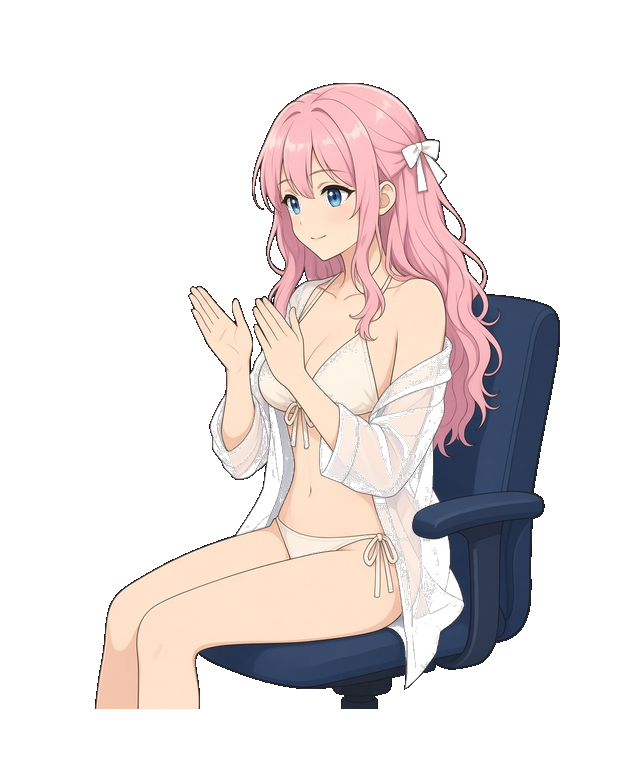
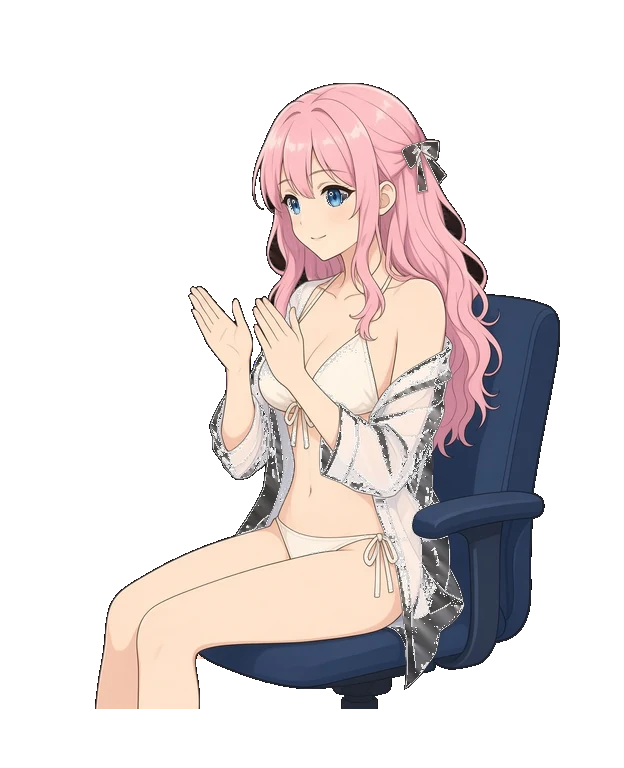
修補秘書拍手慶祝立繪去背破洞並壓縮 WebP 體積。
擴充 alpha 修補腳本與自動化測試，確保人物內部無透明孔洞且檔案大小符合同系列水準。

diff --git a/scripts/fix_secretary_status_sprites.py b/scripts/fix_secretary_status_sprites.py
@@ -1,7 +1,8 @@
 #!/usr/bin/env python3
-"""Repair alpha on secretary status sprites (idle / typing / sleep).
+"""Repair alpha on secretary status sprites and celebrate clap frames.
 
 Removes near-white fringe pixels then inpaints interior holes from opaque neighbors.
+Clap sprites additionally fill interior transparent shirt folds via fill_interior_transparent.
 """
 from __future__ import annotations
 
@@ -41,6 +42,10 @@ WAIST_GAP_SPRITES = frozenset(
 )
 
 REF_WAIST_SPRITE = "secretary-clap-a.webp"
+
+CLAP_SPRITES = ("secretary-clap-a.webp", "secretary-clap-b.webp")
+CLAP_SIZE_MIN = 35_000
+CLAP_SIZE_MAX = 62_000
 
 # 比讚跳躍時鍵盤與大腿間的透明腰洞（與 issue 描述列區間對齊）
 CELEBRATE_WAIST_BOX = (552, 590, 80, 126)
@@ -113,6 +118,71 @@ def is_sheet_rgb(r: int, g: int, b: int) -> bool:
 
 def is_brown_rgb(r: int, g: int, b: int) -> bool:
     return (g - b) >= 12 and (r - b) >= 22 and b < 205 and r < 245
+
+
+def fill_interior_transparent(
+    alpha: np.ndarray, rgb: np.ndarray, thresh: int = 12, max_rounds: int = 500
+) -> Tuple[np.ndarray, np.ndarray]:
+    """Fill every interior transparent pixel (including white-shirt holes)."""
+    a = alpha.copy()
+    c = rgb.copy()
+    h, w = a.shape
+    for _ in range(max_rounds):
+        transparent = a < thresh
+        interior = transparent & ~flood_from_edges(transparent)
+        if not int(interior.sum()):
+            break
+        pending = interior.copy()
+        q: deque = deque((int(x), int(y)) for y, x in zip(*np.where(pending)))
+        filled = 0
+        while q:
+            x, y = q.popleft()
+            if not pending[y, x]:
+                continue
+            n_c: List[np.ndarray] = []
+            for nx, ny in ((x - 1, y), (x + 1, y), (x, y - 1), (x, y + 1)):
+                if 0 <= nx < w and 0 <= ny < h and a[ny, nx] >= thresh:
+                    n_c.append(c[ny, nx])
+            if not n_c:
+                continue
+            rr, gg, bb = map(int, np.median(np.stack(n_c, axis=0), axis=0))
+            a[y, x] = 255
+            c[y, x] = (rr, gg, bb)
+            pending[y, x] = False
+            filled += 1
+            for nx, ny in ((x - 1, y), (x + 1, y), (x, y - 1), (x, y + 1)):
+                if 0 <= nx < w and 0 <= ny < h and pending[ny, nx]:
+                    q.append((nx, ny))
+        if filled == 0:
+            break
+    return a, c
+
+
+def clear_nearwhite_fringe(alpha: np.ndarray, rgb: np.ndarray) -> Tuple[np.ndarray, np.ndarray]:
+    a = alpha.copy()
+    c = rgb.copy()
+    exterior = flood_from_edges(a < 12)
+
+    def semi_mask() -> np.ndarray:
+        return (
+            (a > 40)
+            & (a < 245)
+            & (c[:, :, 0] >= 230)
+            & (c[:, :, 1] >= 230)
+            & (c[:, :, 2] >= 230)
+        )
+
+    drop = semi_mask() & dilate(exterior, 2)
+    if int(drop.sum()):
+        a[drop] = 0
+    body = a > 200
+    for _ in range(8):
+        snap = semi_mask() & dilate(body, 1)
+        if not int(snap.sum()):
+            break
+        a[snap] = 255
+        body = a > 200
+    return a, c
 
 
 def inpaint_holes(alpha: np.ndarray, rgb: np.ndarray, max_passes: int = 96) -> Tuple[np.ndarray, np.ndarray]:
@@ -403,6 +473,18 @@ def snap_alpha(alpha: np.ndarray) -> np.ndarray:
     return a
 
 
+def fix_clap_sprite(im: Image.Image) -> Image.Image:
+    arr = np.array(im.convert("RGBA"))
+    rgb = arr[:, :, :3].copy()
+    alpha = arr[:, :, 3].copy()
+    alpha, rgb = repair_foot_and_fringe(alpha, rgb)
+    alpha, rgb = fill_interior_transparent(alpha, rgb)
+    alpha, rgb = repair_foot_and_fringe(alpha, rgb)
+    alpha, rgb = clear_nearwhite_fringe(alpha, rgb)
+    alpha = snap_alpha(alpha)
+    return Image.fromarray(np.dstack([rgb, alpha]).astype(np.uint8))
+
+
 def fix_sprite(im: Image.Image, name: str = "") -> Image.Image:
     arr = np.array(im.convert("RGBA"))
     rgb = arr[:, :, :3].copy()
@@ -454,9 +536,15 @@ def check_sprite(path: Path) -> List[str]:
     if int((alpha[border] > 8).sum()) > 0:
         errs.append(f"{path.name}: non-transparent image border")
     holes = interior_hole_count(alpha)
-    hole_limit = 230 if path.name == "secretary-sleep.webp" else 100
+    hole_limit = 0 if path.name in CLAP_SPRITES else (230 if path.name == "secretary-sleep.webp" else 100)
     if holes > hole_limit:
         errs.append(f"{path.name}: {holes} interior enclosed holes (limit {hole_limit})")
+    if path.name in CLAP_SPRITES:
+        nbytes = path.stat().st_size
+        if nbytes < CLAP_SIZE_MIN or nbytes > CLAP_SIZE_MAX:
+            errs.append(
+                f"{path.name}: file size {nbytes} bytes (want {CLAP_SIZE_MIN}-{CLAP_SIZE_MAX})"
+            )
     waist = waist_hole_pixels(alpha)
     if waist > 120:
         errs.append(f"{path.name}: {waist} waist enclosed holes (limit 120)")
@@ -589,6 +677,17 @@ def _detached_matte_count(alpha: np.ndarray, rgb: np.ndarray, region: np.ndarray
     return count
 
 
+def run_fix_clap() -> None:
+    for name in CLAP_SPRITES:
+        path = ASSET_DIR / name
+        if not path.exists():
+            print(f"skip missing {name}", file=sys.stderr)
+            continue
+        im = fix_clap_sprite(Image.open(path))
+        save_webp(im, path)
+        print(f"wrote {name}")
+
+
 def run_fix(extra: bool = False) -> None:
     names = list(STATUS_SPRITES)
     if extra:
@@ -605,7 +704,7 @@ def run_fix(extra: bool = False) -> None:
 
 def run_check() -> int:
     errs: List[str] = []
-    checked = set(STATUS_SPRITES) | WAIST_GAP_SPRITES
+    checked = set(STATUS_SPRITES) | WAIST_GAP_SPRITES | set(CLAP_SPRITES)
     for name in sorted(checked):
         path = ASSET_DIR / name
         if path.is_file():
@@ -620,12 +719,16 @@ def run_check() -> int:
 
 def main() -> int:
     parser = argparse.ArgumentParser()
-    parser.add_argument("--check", action="store_true", help="verify status sprites only")
+    parser.add_argument("--check", action="store_true", help="verify status and clap sprites")
     parser.add_argument("--extra", action="store_true", help="also fix typing-b, wave, yeah")
+    parser.add_argument("--clap", action="store_true", help="repair secretary-clap-a/b.webp")
     args = parser.parse_args()
     if args.check:
         return run_check()
-    run_fix(extra=args.extra)
+    if args.clap:
+        run_fix_clap()
+    if not args.clap:
+        run_fix(extra=args.extra)
     return run_check()
 
 

diff --git a/server/src/test/java/com/example/server/web/SecretaryStatusSpriteAlphaTest.java b/server/src/test/java/com/example/server/web/SecretaryStatusSpriteAlphaTest.java
@@ -13,7 +13,7 @@ import java.util.concurrent.TimeUnit;
 import static org.junit.Assert.assertEquals;
 import static org.junit.Assert.assertTrue;
 
-/** 三張秘書狀態立繪的 alpha 檢查（PIL）。 */
+/** 秘書狀態與拍手慶祝立繪的 alpha 檢查（PIL）。 */
 public class SecretaryStatusSpriteAlphaTest {
 
     @Test
